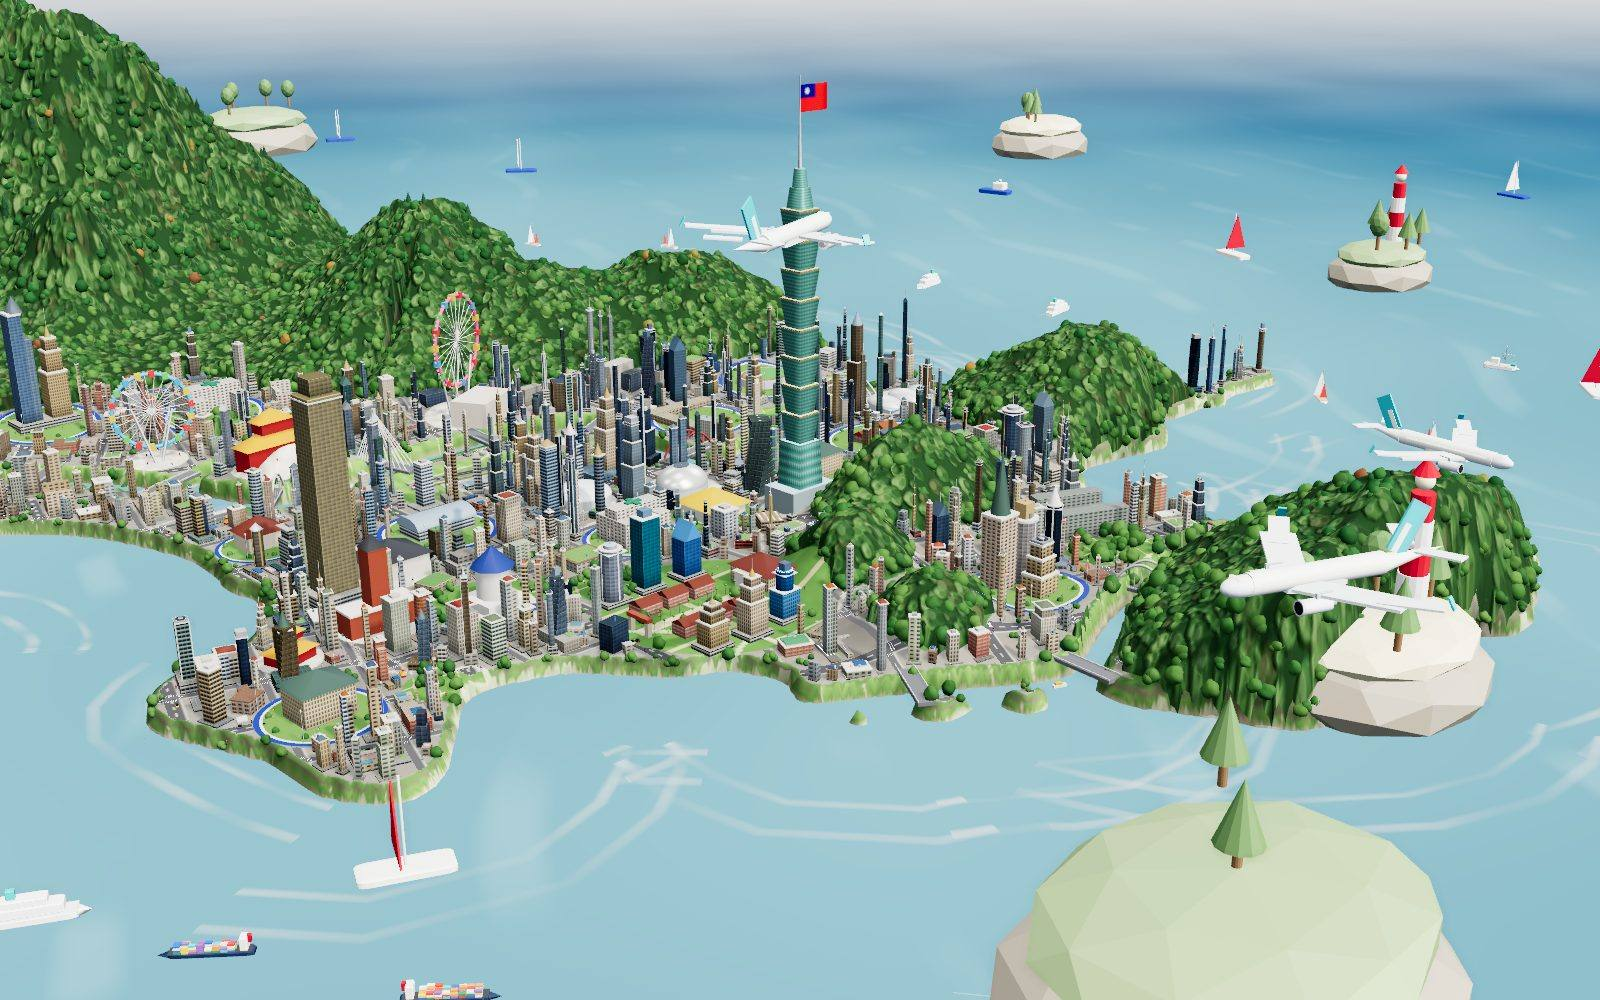
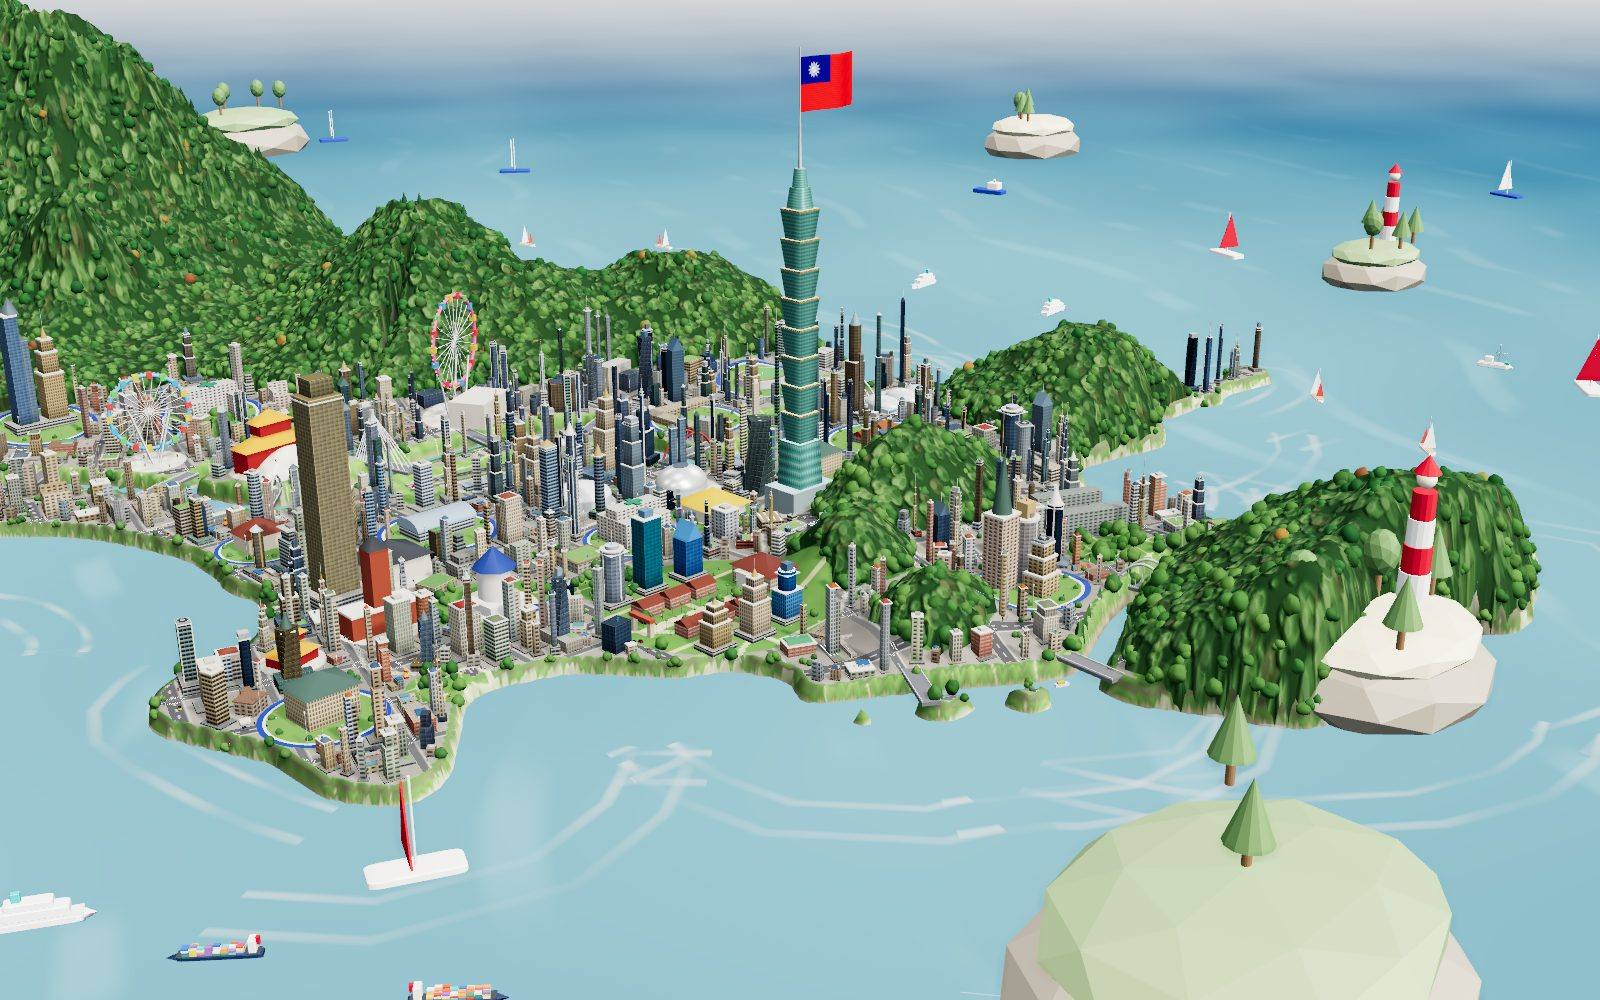
v0.6.4: fewer planes, slower orbit, smaller tags, bigger 101 flag, list closed by default, single desktop toolbar
Claude-Session: https://claude.ai/code/session_01U84tuC4LtVWC4rHRAY9nXo

diff --git a/prototypes/greater-taipei-v0.6.4.html b/prototypes/greater-taipei-v0.6.4.html
@@ -194,12 +194,15 @@ html.hi.booting .loading{position:fixed;inset:0;z-index:70;visibility:visible;di
 .loading-brand{position:relative;flex:none;aspect-ratio:2158 / 729;width:min(520px,100%);padding:0;border:0;background:none;box-shadow:none;line-height:0}
 .loading-brand picture{display:block;width:100%;height:100%}
 html.hi:not(.booting) .loading{display:none}
-.hi .stage .tlabel,.hi .stage.far .tlabel:not(.sel):not(.hot),.hi .stage.city-view .tlabel:not([hidden]){background:#fff!important;color:#14213D!important;border:2px solid color-mix(in srgb,var(--c) 70%,#fff)!important;box-shadow:0 4px 14px rgba(16,36,67,.28)!important;text-shadow:none!important;font:800 26px/1.2 var(--f-body)!important;padding:10px 22px 10px 18px!important;gap:12px!important;border-radius:14px!important}
-.hi .stage .tlabel b,.hi .stage.far .tlabel:not(.sel):not(.hot) b,.hi .stage.city-view .tlabel:not([hidden]) b{font:800 22px var(--f-mono)!important;color:var(--c)!important}
-.hi .stage .tlabel span,.hi .stage.far .tlabel:not(.sel):not(.hot) span,.hi .stage.city-view .tlabel:not([hidden]) span{font-size:26px!important;color:#14213D!important;max-width:none!important;white-space:nowrap!important}
+@media (min-width:861px){.hi .hi-toolbar{gap:2px;padding:4px;border-radius:14px;align-items:center;background:color-mix(in srgb,var(--surface) 90%,transparent);backdrop-filter:blur(6px);box-shadow:0 6px 20px rgba(20,33,61,.12)}
+ .hi .hi-toolbar .hi-maptools,.hi .hi-toolbar .hi-modes{background:none;box-shadow:none;backdrop-filter:none;padding:0;border-radius:0}
+ .hi .hi-toolbar .hi-modes{border-left:1px solid var(--line);padding-left:6px;margin-left:4px}}
+.hi .stage .tlabel,.hi .stage.far .tlabel:not(.sel):not(.hot),.hi .stage.city-view .tlabel:not([hidden]){background:#fff!important;color:#14213D!important;border:2px solid color-mix(in srgb,var(--c) 70%,#fff)!important;box-shadow:0 4px 14px rgba(16,36,67,.28)!important;text-shadow:none!important;font:800 13px/1.2 var(--f-body)!important;padding:5px 11px 5px 9px!important;gap:6px!important;border-radius:8px!important;border-width:1.5px!important}
+.hi .stage .tlabel b,.hi .stage.far .tlabel:not(.sel):not(.hot) b,.hi .stage.city-view .tlabel:not([hidden]) b{font:800 11px var(--f-mono)!important;color:var(--c)!important}
+.hi .stage .tlabel span,.hi .stage.far .tlabel:not(.sel):not(.hot) span,.hi .stage.city-view .tlabel:not([hidden]) span{font-size:13px!important;color:#14213D!important;max-width:none!important;white-space:nowrap!important}
 .hi .stage .tlabel:hover,.hi .stage .tlabel.sel,.hi .stage .tlabel.hot{background:var(--c)!important;border-color:#fff!important}
 .hi .stage .tlabel:hover span,.hi .stage .tlabel.sel span,.hi .stage .tlabel.hot span,.hi .stage .tlabel:hover b,.hi .stage .tlabel.sel b,.hi .stage .tlabel.hot b{color:#fff!important}
-@media (max-width:860px){.hi .stage .tlabel,.hi .stage.far .tlabel:not(.sel):not(.hot),.hi .stage.city-view .tlabel:not([hidden]){font-size:15px!important;padding:5px 11px 5px 9px!important;gap:6px!important;border-radius:10px!important}.hi .stage .tlabel span,.hi .stage.city-view .tlabel:not([hidden]) span{font-size:15px!important}.hi .stage .tlabel b,.hi .stage.city-view .tlabel:not([hidden]) b{font-size:13px!important}}
+@media (max-width:860px){.hi .stage .tlabel,.hi .stage.far .tlabel:not(.sel):not(.hot),.hi .stage.city-view .tlabel:not([hidden]){font-size:12px!important;padding:4px 9px 4px 7px!important;gap:5px!important;border-radius:8px!important}.hi .stage .tlabel span,.hi .stage.city-view .tlabel:not([hidden]) span{font-size:12px!important}.hi .stage .tlabel b,.hi .stage.city-view .tlabel:not([hidden]) b{font-size:10px!important}}
 .hi .hi-count{display:grid!important;grid-template-columns:1fr 1fr;gap:4px 18px;margin-top:10px;align-items:end}
 .hi .hi-stat{display:flex;flex-direction:column;gap:2px}
 .hi .hi-stat b{font:800 44px/1 var(--f-display);color:var(--c,var(--c-taipei));letter-spacing:-.02em}
@@ -4153,7 +4156,7 @@ const REAL_TAIPEI={};
  let cx0=1e9,cx1=-1e9,cz0=1e9,cz1=-1e9;for(const [x,z] of coast){cx0=Math.min(cx0,x);cx1=Math.max(cx1,x);cz0=Math.min(cz0,z);cz1=Math.max(cz1,z);}
  const tpIslands=islands.filter(i=>i.city==='taipei');
  const themes=tpIslands.map(i=>({id:i.t.id,name:i.t.name,kind:i.t.kind,area:i.t.area,no:i.t.no,items:i.t.items||[]}));
- const real=createRealTaipei(document.createElement('div'),{embed:true,renderer,postprocessing:false,ui:false,policies:themes,cityColor:cityHex('taipei'),campusRadius:5.4,campusHeight:2.2,nightBoost:1.15,carScale:1.5,walkerScale:3.2});
+ const real=createRealTaipei(document.createElement('div'),{embed:true,renderer,postprocessing:false,ui:false,policies:themes,cityColor:cityHex('taipei'),flagScale:2,campusRadius:5.4,campusHeight:2.2,nightBoost:1.15,carScale:1.5,walkerScale:3.2});
  const g=real.root,lb=g.userData.landBounds;
  const k=Math.min((cx1-cx0)/(lb.maxX-lb.minX),(cz1-cz0)/(lb.maxZ-lb.minZ))*1.02;
  g.scale.setScalar(k);
@@ -4247,7 +4250,8 @@ APPROVED_ART.ao=artAO;
  const newCourse=(f)=>{const c=window.REAL_TAIPEI?.focus101||{x:0,z:0},R=85,a=rnd()*Math.PI*2,b=a+Math.PI+(rnd()-.5)*1.4,off=(rnd()-.5)*50,px=-Math.sin(a),pz=Math.cos(a);
   f.ax=c.x+Math.cos(a)*R+px*off;f.az=c.z+Math.sin(a)*R+pz*off;f.bx=c.x+Math.cos(b)*R+px*off*.4;f.bz=c.z+Math.sin(b)*R+pz*off*.4;f.len=Math.hypot(f.bx-f.ax,f.bz-f.az);
   f.y=WATER_Y+7+rnd()*9;f.speed=3.2+rnd()*2.8;f.t=0;f.wait=4+rnd()*40;f.yaw=Math.atan2(f.bx-f.ax,f.bz-f.az);};
- const flyPlanes=(dt,moving)=>{for(const root of planeList()){let f=flights.get(root);if(!f){f={};newCourse(f);f.wait=rnd()*30;flights.set(root,f);}
+ const flyPlanes=(dt,moving)=>{const all=planeList();for(let i=0;i<all.length;i++){const root=all[i];if(i%2){root.visible=false;continue;} // half the aircraft
+  let f=flights.get(root);if(!f){f={};newCourse(f);f.wait=rnd()*30;flights.set(root,f);}
   if(!moving){root.visible=false;continue;}
   if(f.wait>0){f.wait-=dt;root.visible=false;continue;}
   f.t+=dt*f.speed/f.len;if(f.t>=1){newCourse(f);root.visible=false;continue;}
@@ -4447,7 +4451,7 @@ function updatePanoramaOrbit(now,dt) {
   if(A.state.selTheme||A.state.selItem||A.state.selFlow){stopPanoramaOrbit();return false;} // single city: being 'in' Taipei does not stop the orbit
   if(panoramaOrbit.waitingSince===null){panoramaOrbit.waitingSince=now;return false;}
   if(now-panoramaOrbit.waitingSince<1500)return false;
-  const step=Math.max(0,dt)*Math.PI*2/180; // one revolution every 3 minutes, continuous
+  const step=Math.max(0,dt)*Math.PI*2/360; // one revolution every 6 minutes, continuous
   const offset=camera.position.clone().sub(controls.target);
   offset.applyAxisAngle(new THREE.Vector3(0,1,0),-step);
   camera.position.copy(controls.target).add(offset);
@@ -5223,7 +5227,7 @@ const UI = {};
     MAP3D.flyTo(target,pos);
   };
 
-  setPop(true);if(innerWidth>860)setMode("list");
+  setPop(true);
   UI.followCity=(c)=>{
     if(c===LIVE)return;
     if(A.state.selTheme||A.state.selItem||A.state.selFlow||!tour.hidden)UI.dismissOverlays();

diff --git a/prototypes/taipei-real-v060.js b/prototypes/taipei-real-v060.js
@@ -580,8 +580,9 @@ const L101=ZM['台北101'];
    fg.fillStyle='#000095';fg.beginPath();fg.arc(75,50,16.5,0,7);fg.fill();fg.fillStyle='#ffffff';fg.beginPath();fg.arc(75,50,14,0,7);fg.fill();
    const ft=new THREE.CanvasTexture(fc);ft.anisotropy=4;const fgeo=new THREE.PlaneGeometry(3,2,24,12).translate(1.5,0,0);
    flag=new THREE.Mesh(fgeo,nightable(new THREE.MeshStandardMaterial({map:ft,emissiveMap:ft,emissive:'#ffffff',side:THREE.DoubleSide,roughness:.7}),0,.55));
-   flag.userData.base=fgeo.attributes.position.array.slice();flag.scale.set(1.1,.72,1.1);flag.position.set(.05,y+3.68,0);flag.castShadow=true;t.add(flag);
-   const pole=new THREE.Mesh(new THREE.CylinderGeometry(.045,.045,2.6,6),new THREE.MeshStandardMaterial({color:'#e6ecef',metalness:.7,roughness:.3}));pole.position.set(0,y+3.6,0);t.add(pole);}
+   const FS=opts.flagScale||1,PL=2.6+1.44*(FS-1); // opts.flagScale enlarges the 101 flag; the pole grows so the flag stays above the spire
+   flag.userData.base=fgeo.attributes.position.array.slice();flag.scale.set(1.1*FS,.72*FS,1.1*FS);flag.position.set(.05,y+2.3+PL-.5-.72*FS,0);flag.castShadow=true;t.add(flag);
+   const pole=new THREE.Mesh(new THREE.CylinderGeometry(.045*Math.sqrt(FS),.045*Math.sqrt(FS),PL,6),new THREE.MeshStandardMaterial({color:'#e6ecef',metalness:.7,roughness:.3}));pole.position.set(0,y+2.3+PL/2,0);t.add(pole);}
   t.position.set(L101.x,Hh(L101.x,L101.z)-.2,L101.z);t.scale.set(1.05,1.6,1.05);scene.add(t);}
 const M=c=>new THREE.MeshStandardMaterial({color:c,roughness:.6});
 function grp(x,z,ry,parts,sc){sc=sc||1.6;const g=new THREE.Group(),zn=ZONES.find(o=>Math.hypot(o.x-x,o.z-z)<.05),rr=zn?zn.r-.5:0;let gy=Hh(x,z);for(let k=0;k<16&&rr;k++){const a=k/16*6.2832;gy=Math.min(gy,Hh(x+Math.cos(a)*rr,z+Math.sin(a)*rr));}

diff --git a/tools/build_taipei_real_v064_preview.py b/tools/build_taipei_real_v064_preview.py
@@ -36,7 +36,8 @@ UPDATE = r"""
  const newCourse=(f)=>{const c=window.REAL_TAIPEI?.focus101||{x:0,z:0},R=85,a=rnd()*Math.PI*2,b=a+Math.PI+(rnd()-.5)*1.4,off=(rnd()-.5)*50,px=-Math.sin(a),pz=Math.cos(a);
   f.ax=c.x+Math.cos(a)*R+px*off;f.az=c.z+Math.sin(a)*R+pz*off;f.bx=c.x+Math.cos(b)*R+px*off*.4;f.bz=c.z+Math.sin(b)*R+pz*off*.4;f.len=Math.hypot(f.bx-f.ax,f.bz-f.az);
   f.y=WATER_Y+7+rnd()*9;f.speed=3.2+rnd()*2.8;f.t=0;f.wait=4+rnd()*40;f.yaw=Math.atan2(f.bx-f.ax,f.bz-f.az);};
- const flyPlanes=(dt,moving)=>{for(const root of planeList()){let f=flights.get(root);if(!f){f={};newCourse(f);f.wait=rnd()*30;flights.set(root,f);}
+ const flyPlanes=(dt,moving)=>{const all=planeList();for(let i=0;i<all.length;i++){const root=all[i];if(i%2){root.visible=false;continue;} // half the aircraft
+  let f=flights.get(root);if(!f){f={};newCourse(f);f.wait=rnd()*30;flights.set(root,f);}
   if(!moving){root.visible=false;continue;}
   if(f.wait>0){f.wait-=dt;root.visible=false;continue;}
   f.t+=dt*f.speed/f.len;if(f.t>=1){newCourse(f);root.visible=false;continue;}
@@ -46,12 +47,15 @@ UPDATE = r"""
 
 
 POSTER_CSS = """
-.hi .stage .tlabel,.hi .stage.far .tlabel:not(.sel):not(.hot),.hi .stage.city-view .tlabel:not([hidden]){background:#fff!important;color:#14213D!important;border:2px solid color-mix(in srgb,var(--c) 70%,#fff)!important;box-shadow:0 4px 14px rgba(16,36,67,.28)!important;text-shadow:none!important;font:800 26px/1.2 var(--f-body)!important;padding:10px 22px 10px 18px!important;gap:12px!important;border-radius:14px!important}
-.hi .stage .tlabel b,.hi .stage.far .tlabel:not(.sel):not(.hot) b,.hi .stage.city-view .tlabel:not([hidden]) b{font:800 22px var(--f-mono)!important;color:var(--c)!important}
-.hi .stage .tlabel span,.hi .stage.far .tlabel:not(.sel):not(.hot) span,.hi .stage.city-view .tlabel:not([hidden]) span{font-size:26px!important;color:#14213D!important;max-width:none!important;white-space:nowrap!important}
+@media (min-width:861px){.hi .hi-toolbar{gap:2px;padding:4px;border-radius:14px;align-items:center;background:color-mix(in srgb,var(--surface) 90%,transparent);backdrop-filter:blur(6px);box-shadow:0 6px 20px rgba(20,33,61,.12)}
+ .hi .hi-toolbar .hi-maptools,.hi .hi-toolbar .hi-modes{background:none;box-shadow:none;backdrop-filter:none;padding:0;border-radius:0}
+ .hi .hi-toolbar .hi-modes{border-left:1px solid var(--line);padding-left:6px;margin-left:4px}}
+.hi .stage .tlabel,.hi .stage.far .tlabel:not(.sel):not(.hot),.hi .stage.city-view .tlabel:not([hidden]){background:#fff!important;color:#14213D!important;border:2px solid color-mix(in srgb,var(--c) 70%,#fff)!important;box-shadow:0 4px 14px rgba(16,36,67,.28)!important;text-shadow:none!important;font:800 13px/1.2 var(--f-body)!important;padding:5px 11px 5px 9px!important;gap:6px!important;border-radius:8px!important;border-width:1.5px!important}
+.hi .stage .tlabel b,.hi .stage.far .tlabel:not(.sel):not(.hot) b,.hi .stage.city-view .tlabel:not([hidden]) b{font:800 11px var(--f-mono)!important;color:var(--c)!important}
+.hi .stage .tlabel span,.hi .stage.far .tlabel:not(.sel):not(.hot) span,.hi .stage.city-view .tlabel:not([hidden]) span{font-size:13px!important;color:#14213D!important;max-width:none!important;white-space:nowrap!important}
 .hi .stage .tlabel:hover,.hi .stage .tlabel.sel,.hi .stage .tlabel.hot{background:var(--c)!important;border-color:#fff!important}
 .hi .stage .tlabel:hover span,.hi .stage .tlabel.sel span,.hi .stage .tlabel.hot span,.hi .stage .tlabel:hover b,.hi .stage .tlabel.sel b,.hi .stage .tlabel.hot b{color:#fff!important}
-@media (max-width:860px){.hi .stage .tlabel,.hi .stage.far .tlabel:not(.sel):not(.hot),.hi .stage.city-view .tlabel:not([hidden]){font-size:15px!important;padding:5px 11px 5px 9px!important;gap:6px!important;border-radius:10px!important}.hi .stage .tlabel span,.hi .stage.city-view .tlabel:not([hidden]) span{font-size:15px!important}.hi .stage .tlabel b,.hi .stage.city-view .tlabel:not([hidden]) b{font-size:13px!important}}
+@media (max-width:860px){.hi .stage .tlabel,.hi .stage.far .tlabel:not(.sel):not(.hot),.hi .stage.city-view .tlabel:not([hidden]){font-size:12px!important;padding:4px 9px 4px 7px!important;gap:5px!important;border-radius:8px!important}.hi .stage .tlabel span,.hi .stage.city-view .tlabel:not([hidden]) span{font-size:12px!important}.hi .stage .tlabel b,.hi .stage.city-view .tlabel:not([hidden]) b{font-size:10px!important}}
 .hi .hi-count{display:grid!important;grid-template-columns:1fr 1fr;gap:4px 18px;margin-top:10px;align-items:end}
 .hi .hi-stat{display:flex;flex-direction:column;gap:2px}
 .hi .hi-stat b{font:800 44px/1 var(--f-display);color:var(--c,var(--c-taipei));letter-spacing:-.02em}
@@ -77,7 +81,9 @@ def build():
         s = s.replace(a, b, count)
 
     sub('import * as THREE from "three";\n', 'import * as THREE from "three";\n' + base["IMPORT"])
-    sub("APPROVED_ART.transport=await buildTransportNetwork(", base["REPLACE"] + "APPROVED_ART.transport=await buildTransportNetwork(")
+    replace = base["REPLACE"].replace("campusRadius:5.4,", "flagScale:2,campusRadius:5.4,")  # 101 flag twice as large
+    assert "flagScale:2" in replace
+    sub("APPROVED_ART.transport=await buildTransportNetwork(", replace + "APPROVED_ART.transport=await buildTransportNetwork(")
     sub("APPROVED_ART.ao=artAO;", "APPROVED_ART.ao=artAO;" + UPDATE)
     sub('content="0.4.12"', f'content="{VERSION}"')
     sub('const near = THREE.MathUtils.clamp(camDist * 0.02, 0.3, 12);', 'const near = THREE.MathUtils.clamp(camDist * 0.02, 0.012, 12);')
@@ -130,7 +136,7 @@ def build():
         'const o=overview(),desktop=true,f=o;controls.maxDistance=o.dist*1.5;ENV.fit?.(o.dist*1.5);entered=null;camera.position.copy(f.pos);controls.target.copy(f.target);controls.update();stage.classList.toggle("pano",desktop);')
     sub("function armPanoramaOrbit() { if(stage.clientWidth>860)return; panoramaOrbit.armed=true;", "function armPanoramaOrbit() { panoramaOrbit.armed=true;")
     sub("if(now-panoramaOrbit.waitingSince<5000)return false;\n  const step=Math.min(Math.max(0,dt)*Math.PI*2/180,Math.PI*2-panoramaOrbit.angle);",
-        "if(now-panoramaOrbit.waitingSince<1500)return false;\n  const step=Math.max(0,dt)*Math.PI*2/180; // one revolution every 3 minutes, continuous")
+        "if(now-panoramaOrbit.waitingSince<1500)return false;\n  const step=Math.max(0,dt)*Math.PI*2/360; // one revolution every 6 minutes, continuous")
     sub("  if(panoramaOrbit.angle>=Math.PI*2-1e-9)stopPanoramaOrbit();\n", "")
     # Faster first paint:
     # 1) the two brand logos were inlined as ~1.6 MB PNG data URIs, each twice (8.8 MB of the 9.6 MB page);
@@ -190,7 +196,7 @@ def build():
     sub("pop.append(cand, count, chips);", "pop.append(cand, count, el(\"p\", \"hi-pop-note\", independence));")
     sub("intro.hidden = false; // Explain", "intro.hidden = true; // v0.6.4: stats card and policy list open instead; help stays on the ? button. Explain")
     # 6) Policy list and stats card open on arrival (list on desktop; on phones it would cover the map).
-    sub("  UI.followCity=(c)=>{", "  setPop(true);if(innerWidth>860)setMode(\"list\");\n  UI.followCity=(c)=>{")
+    sub("  UI.followCity=(c)=>{", "  setPop(true);\n  UI.followCity=(c)=>{")
     s = re.sub(r'<title>.*?</title>', '<title>台北安可擬真臺北 v0.6.4</title>', s, count=1)
     OUT.write_text(s, encoding="utf-8")
     print(f"Built v{VERSION} realistic Taipei only (New Taipei and bridges removed) -> {OUT.relative_to(ROOT)}")

diff --git a/HANDOFF.md b/HANDOFF.md
@@ -629,3 +629,4 @@ User explicitly approved v0.4.12 for production. Promoter now uses v0412, all28 
 - Follow-up: user asked to remove New Taipei and both bridges. v0.6.4 builder now makes the page Taipei-only at the data level (ORDER/LIVE_CITIES = taipei; NT kit input skipped; transportPlan.bridges emptied; cluster offset, ship gateways and desktop panorama framing use existing cities; help/meta copy updated). Verified desktop 1100×700 and phone 390×844: no page errors, WORLD.cities=[taipei], 0 bridges, one city sign.
 - Follow-ups on v0.6.4: default view = 101 centred, NE up, lowest polar angle, slow continuous orbit, Panorama returns to it (also on phones); night look adds moonlight (`window.NIGHT_LOOK`, default plan A pending user choice); load: logos externalised to WebP (page 9.6 MB→0.9 MB), hidden Taipei kit not built (stub), `compileAsync`; loading page replaced by pre-rendered posters (`assets/poster-v064-*`, regenerate when view/light changes); Taipei neon city sign + leader line removed.
 - 10/29 round 2 on v0.6.4: orbit no longer blocked by overlays/single-city `entered`, stops only on stage pointer/wheel; white policy tags 2× (desktop); stats card open by default (equal-size counts, independence note; intro not auto-opened); drawer opens on 政策清單 (desktop), 候選人 tab removed; flows involving Taipei listed, map-line sentence removed; aircraft fly random straight crossings with random waits.
+- 10/29 round 3 on v0.6.4: half the aircraft, orbit 6 min/rev, policy tags back to 13px (white), 101 flag ×2 via new engine opt `flagScale` (taipei-real-v060.js; default 1 keeps v0.6.1), drawer not opened on arrival, desktop toolbar merged into one pill, posters regenerated.

diff --git a/docs/TAIPEI_REAL_V060.md b/docs/TAIPEI_REAL_V060.md
@@ -125,3 +125,13 @@ python3 tools/build_taipei_real_preview.py
 - 右側政策選單：刪除「候選人」分頁，預設開在「政策清單」；桌機進站即開啟（手機會蓋住整張地圖，維持收合）。
 - 跨市協作：列出與臺北相關的 6 項（夥伴城市以名稱顯示），刪除「地圖上的紅線連接相關城市；線型代表依據來源。」
 - 飛機：原本 23 架都在固定圓圈或固定航線上無限循環；改為每架隨機等待後出現，從畫面外一側以直線飛越到另一側（方向、偏移、高度、速度皆隨機），離開後再隨機換新航線。
+
+### v0.6.4 後續調整（10/29 第三輪）
+
+- 飛機數量減半（每兩架停用一架，其餘照隨機航線飛）。
+- 自動旋轉減慢一半：約 6 分鐘一圈。
+- 政策標牌縮小一半：桌機 13px（白底樣式不變）；手機維持原本 12px 以確保可讀。
+- 101 國旗放大一倍：引擎新增 `opts.flagScale`（v0.6.4 傳 2），旗桿同步加長，國旗仍在塔尖上方；未傳時與 v0.6.1 相同。
+- 右側政策清單改為預設不開，由使用者點選；統計卡片仍預設開啟。
+- 桌機版工具列整合為單一一條：地標、導覽、音樂、時間｜全景、政策、？（中間以分隔線區分）。
+- 載入畫面圖（`assets/poster-v064-*.jpg`）已依新國旗重新產生。
